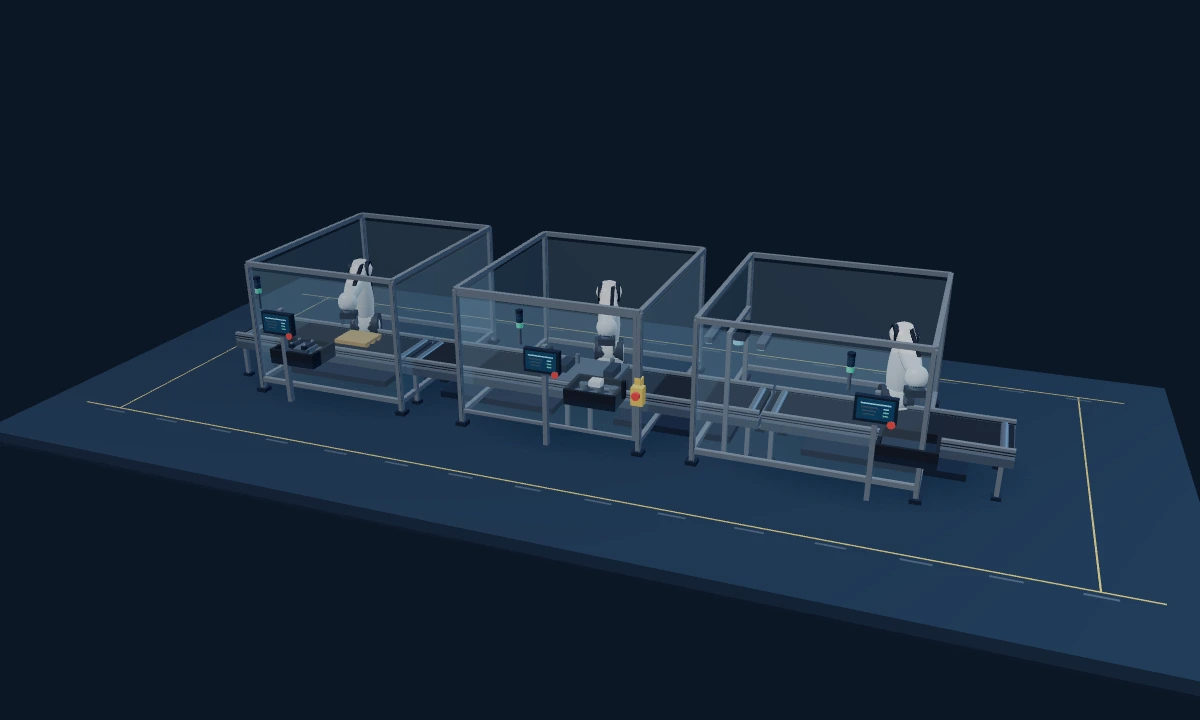
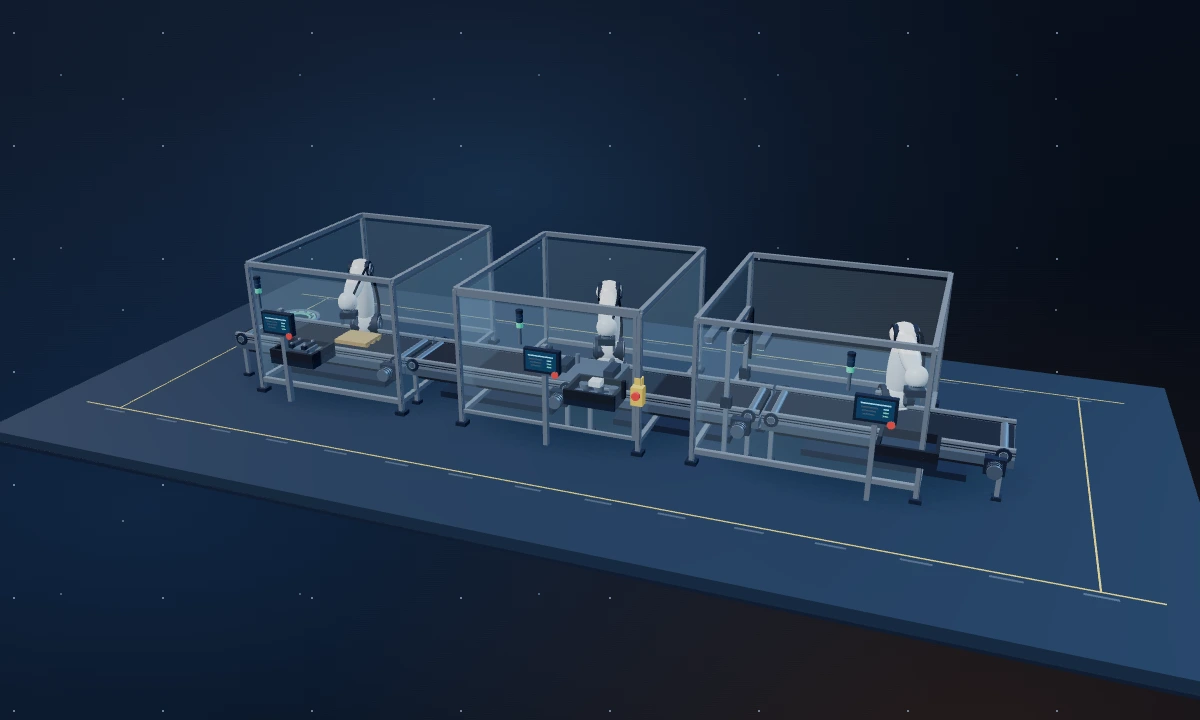
Add interactive cinematic lighting and assembly line details

diff --git a/robot-workstation.js b/robot-workstation.js
@@ -41,15 +41,18 @@
 
   function createLine(THREE, preview) {
     const scene = new THREE.Scene();
-    scene.background = new THREE.Color('#0b1726');
-    scene.fog = new THREE.FogExp2('#0b1726', .022);
+    scene.fog = new THREE.FogExp2('#080f1c', .016);
 
     scene.add(new THREE.HemisphereLight('#dcecff', '#52677c', 2.7));
     const key = new THREE.DirectionalLight('#fff2e5', 2.85);
     key.position.set(-5, 12, 8);
-    const rim = new THREE.DirectionalLight('#83c7ff', 1.4);
+    const rim = new THREE.DirectionalLight('#70baff', 1.85);
     rim.position.set(5, 5, -8);
-    scene.add(key, rim);
+    const bounce = new THREE.DirectionalLight('#ffd6a7', .7);
+    bounce.position.set(-9, 2, -5);
+    const followLight = new THREE.DirectionalLight('#b0d9ff', 1);
+    followLight.position.set(-1, 6, 5);
+    scene.add(key, rim, bounce, followLight);
 
     const mat = (color, properties = {}) => new THREE.MeshStandardMaterial({color, roughness:.55, ...properties});
     const frame = mat('#a9b7c5', {metalness:.66, roughness:.33});
@@ -83,7 +86,8 @@
     const cube = new THREE.BoxGeometry(1, 1, 1);
     const tube = new THREE.CylinderGeometry(1, 1, 1, preview ? 12 : 20);
     const sphere = new THREE.SphereGeometry(1, preview ? 12 : 20, 12);
-    const meshes = new Set([cube, tube, sphere]);
+    const ringGeometry = new THREE.TorusGeometry(1, .083, 8, preview ? 20 : 32);
+    const meshes = new Set([cube, tube, sphere, ringGeometry]);
     const materials = new Set([frame, steel, dark, rubber, enamel, glass, oak, amber, red, green, blue, quiet, screen, beam, floorMat]);
     const equipment = {};
     const named = {};
@@ -109,6 +113,25 @@
     const cylinder = (parent, radius, height, position, material, axis) =>
       mesh(parent, tube, material, [radius,height,radius], position, axis);
     const cap = (parent, size, position, material) => mesh(parent, sphere, material, size, position);
+
+    function ring(parent, radius, position, material, axis='y') {
+      const part = mesh(parent,ringGeometry,material,[radius,radius,radius],position);
+      if (axis==='y') part.rotation.x=Math.PI/2;
+      if (axis==='x') part.rotation.y=Math.PI/2;
+      return part;
+    }
+    function hose(parent, points, material, radius=.038) {
+      const path=new THREE.CatmullRomCurve3(points.map(point=>new THREE.Vector3(...point)));
+      const geometry=new THREE.TubeGeometry(path,preview?10:20,radius,6,false);
+      meshes.add(geometry);
+      parent.add(new THREE.Mesh(geometry,material));
+    }
+    function fasteners(parent,radius,x,material) {
+      for (let i=0; i<6; i++) {
+        const angle=i*Math.PI/3;
+        cylinder(parent,.022,.022,[x,radius*Math.sin(angle),radius*Math.cos(angle)],material,'x');
+      }
+    }
 
     for (const device of devices) {
       equipment[device.id] = group(scene);
@@ -140,7 +163,23 @@
         }
       }
       box(parent,[width*.67,.15,.84],[x,.2,beltZ],dark);
-      for (const dx of [-width/2+.21,width/2-.21]) cylinder(parent,.09,1.24,[x+dx,.998,beltZ],steel,'z');
+      for (const dx of [-width/2+.21,width/2-.21]) {
+        cylinder(parent,.09,1.24,[x+dx,.998,beltZ],steel,'z');
+        for (const side of [-1,1]) {
+          const z=beltZ+side*.765;
+          cylinder(parent,.155,.045,[x+dx,.99,z],dark,'z');
+          cylinder(parent,.09,.061,[x+dx,.99,z],steel,'z');
+          ring(parent,.077,[x+dx,.99,z+side*.035],frame,'z');
+        }
+      }
+      const driveX=x+width/2-.34;
+      box(parent,[.4,.34,.23],[driveX,.8,beltZ+.83],dark);
+      cylinder(parent,.147,.39,[driveX,.8,beltZ+.99],steel,'z');
+      for (let i=0;i<4;i++) ring(parent,.15,[driveX,.8,beltZ+.9+i*.075],dark,'z');
+      box(parent,[width-.4,.12,.08],[x,.66,beltZ+.55],rubber);
+      if (!preview) for (let offset=-width/2+.36;offset<width/2-.16;offset+=.27) {
+        box(parent,[.048,.13,.085],[x+offset,.66,beltZ+.59],steel);
+      }
     }
 
     bench(equipment.feed,-6.67,4.75);
@@ -224,10 +263,25 @@
     tote(equipment.robot,.53,1.65,true);
     tote(equipment.output,7.04,1.97,false);
 
+    // Vibratory feeder beside the input arm, clear of the pick path.
+    const feeder = group(equipment.feed,-8.65,0,-.45);
+    cylinder(feeder,.48,.74,[0,.41,0],steel);
+    cylinder(feeder,.57,.115,[0,.77,0],dark);
+    for (const size of [.59,.48,.36]) ring(feeder,size,[0,.9,0],size===.59?steel:green);
+    for (let i=0;i<12;i++) {
+      const angle=i*Math.PI/6;
+      cylinder(feeder,.038,.025,[.43*Math.cos(angle),.94,.43*Math.sin(angle)],frame);
+    }
+    hose(feeder,[[.42,.23,0],[.68,.08,.12],[.85,.07,.43],[1.05,.07,.51]],rubber);
+
     function robot(parent,x,z) {
       const base = group(parent,x,0,z);
       box(base,[.84,.65,.84],[0,.38,0],steel);
       cylinder(base,.42,.18,[0,.76,0],dark);
+      ring(base,.402,[0,.812,0],steel);
+      for (const dx of [-.3,.3]) for (const dz of [-.3,.3]) {
+        cylinder(base,.036,.042,[dx,.72,dz],frame);
+      }
       const yaw = group(base,0,.85,0);
       cylinder(yaw,.34,.22,[0,.1,0],enamel);
       const shoulder = group(yaw,0,.34,0);
@@ -236,12 +290,21 @@
       cylinder(shoulder,.28,.66,[0,0,0],dark,'x');
       cap(shoulder,[.36,.36,.3],[0,0,0],enamel);
       cap(shoulder,[.26,.82,.25],[0,.64,0],enamel);
-      box(shoulder,[.11,1.03,.055],[.13,.72,-.24],rubber);
+      for (const side of [-1,1]) {
+        const x=side*.32;
+        cylinder(shoulder,.193,.071,[x,0,0],steel,'x');
+        ring(shoulder,.164,[x+side*.036,0,0],dark,'x');
+        if (!preview) fasteners(shoulder,.13,x+side*.045,frame);
+      }
+      hose(shoulder,[[.25,.08,-.1],[.28,.28,-.28],[.255,.83,-.29],[.19,1.34,-.18]],rubber);
       const elbow = group(shoulder,0,upperLength,0);
       cylinder(elbow,.22,.49,[0,0,0],dark,'x');
       cap(elbow,[.3,.31,.25],[0,0,0],enamel);
       cap(elbow,[.21,.76,.21],[0,.58,0],enamel);
-      box(elbow,[.08,.86,.05],[.094,.49,-.193],rubber);
+      cylinder(elbow,.154,.075,[.252,0,0],steel,'x');
+      ring(elbow,.121,[.292,0,0],dark,'x');
+      if (!preview) fasteners(elbow,.092,.304,frame);
+      hose(elbow,[[.22,.02,-.05],[.245,.21,-.22],[.2,.8,-.22],[.117,1.25,-.11]],rubber,.03);
       const wrist = group(elbow,0,lowerLength,0);
       cap(wrist,[.23,.24,.2],[0,0,0],enamel);
       const tool = group(wrist,0,.08,0);
@@ -252,6 +315,8 @@
       addPart(box(tool,[.37,.15,.26],[0,.23,0],dark),'夹爪主体',[.05,.28,0]);
       addPart(box(tool,[.06,.2,.08],[-.165,.375,0],steel),'左夹指',[-.37,.47,0]);
       addPart(box(tool,[.06,.2,.08],[.165,.375,0],steel),'右夹指',[.34,.52,0]);
+      addPart(ring(tool,.125,[0,.078,0],steel),'腕部轴承环',[.21,.17,.27]);
+      addPart(ring(tool,.105,[0,.155,0],blue),'快换接口圈',[-.22,.3,-.24]);
       const aim = new THREE.Vector3();
       function pose(target, gripping=false) {
         aim.copy(target);
@@ -298,7 +363,15 @@
     for (const z of [-.82,.82]) box(sensor,[.095,2.8,.095],[0,1.4,z],frame);
     box(sensor,[.1,.1,1.7],[0,2.77,0],frame);
     box(sensor,[.39,.31,.47],[0,2.57,0],dark);
-    cylinder(sensor,.112,.16,[0,2.34,0],blue);
+    cylinder(sensor,.135,.11,[0,2.34,0],dark);
+    cylinder(sensor,.091,.04,[0,2.265,0],screen);
+    ring(sensor,.153,[0,2.273,0],blue);
+    ring(sensor,.195,[0,2.3,0],steel);
+    hose(sensor,[[.13,2.65,-.2],[.15,2.8,-.38],[.1,2.79,-.79],[.09,1.63,-.82]],rubber);
+    for (const z of [-.82,.82]) {
+      box(sensor,[.22,.24,.17],[0,1.28,z],dark);
+      cylinder(sensor,.035,.39,[0,1.37,z],steel);
+    }
     for (const dx of [-.55,.55]) {
       box(sensor,[.19,.13,.8],[dx,2.41,0],steel);
       box(sensor,[.145,.026,.73],[dx,2.33,0],blue);
@@ -335,7 +408,7 @@
     meshes.add(selection.geometry);
     materials.add(selection.material);
 
-    return {scene,equipment,named,arms,fixtureParts,door,pallet,base,productA,productB,insert,insertA,insertB,scan,selection,stackLights,quiet,
+    return {scene,equipment,named,followLight,arms,fixtureParts,door,pallet,base,productA,productB,insert,insertA,insertB,scan,selection,stackLights,quiet,
       highlight(id) {
         selection.visible = Boolean(id);
         if (id) selection.setFromObject(named[id] || equipment[id]);
@@ -353,7 +426,7 @@
 
   async function createViewer(host, { preview=false } = {}) {
     const [THREE,{OrbitControls}] = await loadLibraries();
-    const renderer = new THREE.WebGLRenderer({antialias:true,powerPreference:preview?'low-power':'default'});
+    const renderer = new THREE.WebGLRenderer({antialias:true,alpha:true,powerPreference:preview?'low-power':'default'});
     renderer.setPixelRatio(Math.min(devicePixelRatio || 1,preview ? 1 : 1.5));
     renderer.outputColorSpace = THREE.SRGBColorSpace;
     renderer.toneMapping = THREE.ACESFilmicToneMapping;
@@ -376,6 +449,8 @@
     const desiredTarget = new THREE.Vector3();
     const homeDirection = new THREE.Vector3(9,10.5,24).normalize();
     const temp = new THREE.Vector3();
+    const lightTarget=new THREE.Vector3(-1,6,5);
+    const reducedMotion=matchMedia('(prefers-reduced-motion: reduce)');
     const observers = new AbortController();
     const listen = {signal:observers.signal};
 
@@ -429,12 +504,24 @@
     observer.observe(host);
     controls.addEventListener('start', () => {focusMoving=false;overview=false;});
     controls.addEventListener('change', () => { draw=true; });
+    host.addEventListener('pointermove',event=>{
+      if (reducedMotion.matches || event.pointerType==='touch') return;
+      const rect=host.getBoundingClientRect();
+      lightTarget.set((event.clientX-rect.left)/rect.width*16-8,6+(1-(event.clientY-rect.top)/rect.height)*4,5);
+    },listen);
+    const resetLight=()=>lightTarget.set(-1,6,5);
+    host.addEventListener('pointerleave',resetLight,listen);
+    reducedMotion.addEventListener('change',resetLight,listen);
     function tick(time) {
       frame = 0;
       if (stopped || !visible || document.hidden) return;
       const dt = previousTime ? Math.min((time-previousTime)/1000,.15) : 0;
       previousTime = time;
       const animated = update(dt);
+      if (line.followLight.position.distanceToSquared(lightTarget)>.001) {
+        line.followLight.position.lerp(lightTarget,reducedMotion.matches?1:1-Math.exp(-dt*5));
+        draw=true;
+      }
       if (focusMoving) {
         const blend = 1-Math.exp(-dt*6.5);
         camera.position.lerp(desiredPosition,blend);
@@ -825,13 +912,34 @@
       if (changed && line.selection.visible && selected) line.highlight(selected);
       return changed;
     }, camera=>{
+      if (!explosion) {
+        overlay.hidden=true;
+        return;
+      }
+      overlay.hidden=false;
+      const {clientWidth:width,clientHeight:height}=overlay;
+      const positioned=[];
       for (const [kind,parts] of Object.entries(partGroups)) for (const part of parts) {
         part.label.hidden=kind!==explosion;
         if (part.label.hidden) continue;
         part.object.getWorldPosition(target).project(camera);
         part.label.hidden=target.z>1 || Math.abs(target.x)>1 || Math.abs(target.y)>1;
-        part.label.style.left=(target.x+1)*50+'%';
-        part.label.style.top=(1-target.y)*50+'%';
+        if (part.label.hidden) continue;
+        const labelWidth=part.label.offsetWidth;
+        const labelHeight=part.label.offsetHeight;
+        const x=(target.x+1)*width/2;
+        const y=(1-target.y)*height/2;
+        const before=positioned.length;
+        for (const offset of [0,-23,23,-46,46,-69,69]) {
+          const left=THREE.MathUtils.clamp(offset<0?x-labelWidth-12:x+12,4,width-labelWidth-4);
+          const top=THREE.MathUtils.clamp(y+offset-labelHeight,4,height-labelHeight-4);
+          if (positioned.some(box=>left<box.right && left+labelWidth>box.left && top<box.bottom && top+labelHeight>box.top)) continue;
+          part.label.style.left=left+'px';
+          part.label.style.top=top+'px';
+          positioned.push({left,right:left+labelWidth,top,bottom:top+labelHeight});
+          break;
+        }
+        part.label.hidden=positioned.length===before;
       }
     });
 

diff --git a/robot-workstation.css b/robot-workstation.css
@@ -25,7 +25,7 @@
 .robot-station .robot-station-actions .robot-emergency.active { background:#a83730; color:#fff; }
 .robot-station .robot-station-actions button:disabled { opacity:.48; cursor:default; }
 .robot-station-part-labels { position:absolute; inset:0; pointer-events:none; overflow:hidden; }
-.robot-station-part-labels span { position:absolute; transform:translate(7px,-100%); padding:3px 6px; border:1px solid #4383a0; border-radius:4px; background:#0d2435ef; color:#d3f3ff; font-size:11px; white-space:nowrap; }
+.robot-station-part-labels span { position:absolute; padding:3px 6px; border:1px solid #4383a0; border-radius:4px; background:#0d2435ef; color:#d3f3ff; font-size:11px; white-space:nowrap; }
 .robot-station-part-labels span::before { content:""; position:absolute; left:-8px; top:100%; width:10px; height:1px; background:#70bbd6; transform:rotate(-35deg); transform-origin:right; }
 .robot-preview { position:absolute; inset:0; }
 .robot-preview-controls { position:absolute; display:flex; flex-wrap:wrap; gap:6px; left:12px; bottom:12px; padding:6px; background:#0b1726c9; border-radius:6px; }
@@ -33,4 +33,54 @@
   .robot-station-viewport { min-height:clamp(280px,51vw,470px); }
   .robot-station-head { gap:6px 13px; }
   .robot-station-head .robot-station-tag { margin-inline-start:0; }
+}
+:root {
+  --cinematic-night:#060b15;
+  --cinematic-dust:
+    radial-gradient(1px 1px at 14px 33px,#c4ddff85 95%,transparent),
+    radial-gradient(1px 1px at 61px 75px,#8fb6e56b 95%,transparent),
+    radial-gradient(1px 1px at 123px 99px,#dae4f15e 95%,transparent);
+  --cinematic-horizon:
+    radial-gradient(ellipse at 80% 110%,#a7653b35,transparent 48%),
+    radial-gradient(ellipse at 12% 70%,#143154ad,transparent 60%),
+    linear-gradient(153deg,#101b2d 0%,#080f1c 46%,var(--cinematic-night) 85%);
+  --cinematic-background:
+    radial-gradient(ellipse 60% 58% at var(--light-x,42%) var(--light-y,26%),#3877b242 0%,#294d7823 45%,transparent 83%),
+    var(--cinematic-dust), var(--cinematic-horizon);
+  --cinematic-size:auto,149px 113px,239px 173px,311px 211px,auto,auto,auto;
+}
+
+@media screen {
+  :root body, :root[data-cloud-entry] body {
+    background:var(--cinematic-background);
+    background-size:var(--cinematic-size);
+    background-attachment:fixed;
+  }
+  :root:not([data-cloud-entry]) .sidebar,
+  :root:not([data-cloud-entry]) .workspace-header {
+    background:#09121eea;
+    border-color:#42638780;
+  }
+  :root main > section {
+    background:linear-gradient(157deg,#132238bd,#0a1524e8 76%);
+    border-color:#36536c;
+    box-shadow:0 17px 38px #0003;
+  }
+  :root[data-cloud-entry] .cloud-login {
+    background:linear-gradient(125deg,#12233ae8,#09121cf7 72%);
+    border-color:#52748c;
+    box-shadow:0 24px 100px #000a,0 0 48px #31558d27;
+  }
+  :root[data-cloud-entry] .cloud-login-brand {
+    background:transparent;
+    border-color:#49708b70;
+  }
+  .robot-station-viewport,
+  .robot-preview-canvas {
+    background:var(--cinematic-background);
+    background-size:var(--cinematic-size);
+  }
+}
+@media (prefers-reduced-motion:reduce) {
+  :root,.robot-station-canvas,.robot-preview-canvas { --light-x:42% !important; --light-y:26% !important; }
 }

diff --git a/index.html b/index.html
@@ -4620,6 +4620,24 @@ if (sharedMode) {
 <script src="robot-workstation.js"></script>
 <script>
 (() => {
+
+  const lightRoot = document.documentElement;
+  const lightMotion = matchMedia('(prefers-reduced-motion: reduce)');
+  if (matchMedia('(any-pointer: fine)').matches) {
+    let glowFrame = 0;
+    let latestPoint;
+    window.addEventListener('pointermove', event => {
+      if (lightMotion.matches || event.pointerType === 'touch') return;
+      latestPoint = [event.clientX, event.clientY];
+      if (glowFrame) return;
+      glowFrame = requestAnimationFrame(() => {
+        glowFrame = 0;
+        if (lightMotion.matches) return;
+        lightRoot.style.setProperty('--light-x', (latestPoint[0] / innerWidth * 100).toFixed(1) + '%');
+        lightRoot.style.setProperty('--light-y', (latestPoint[1] / innerHeight * 100).toFixed(1) + '%');
+      });
+    }, {passive:true});
+  }
   if (!cloud) return;
   const host = document.querySelector('#cloudLoginPreview');
   const root = document.documentElement;
